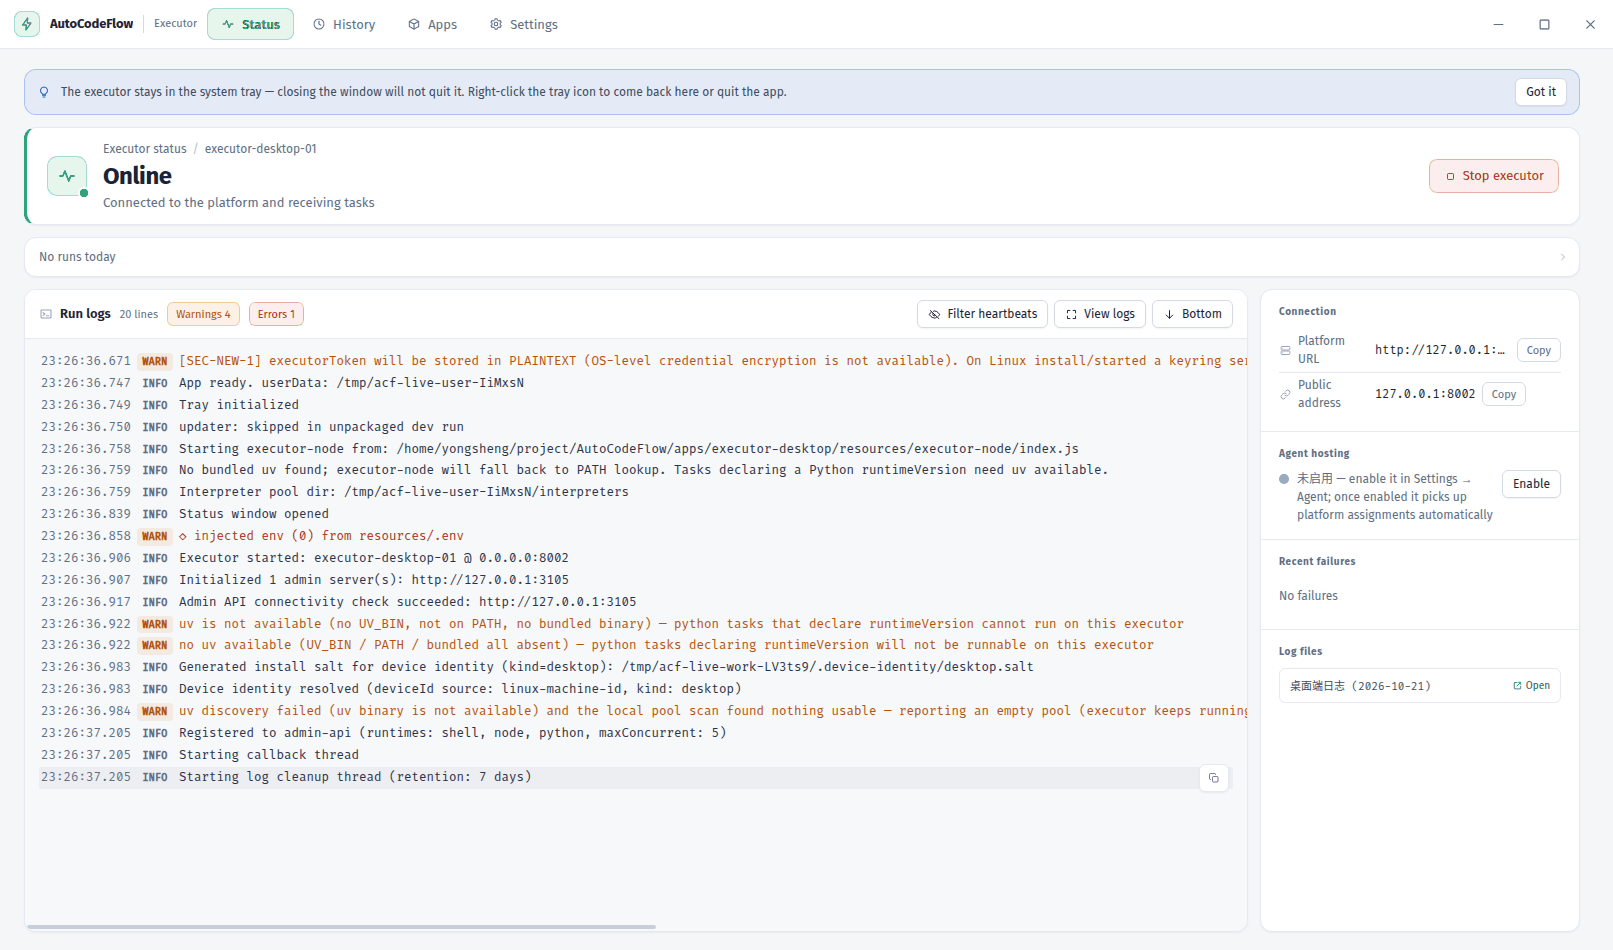
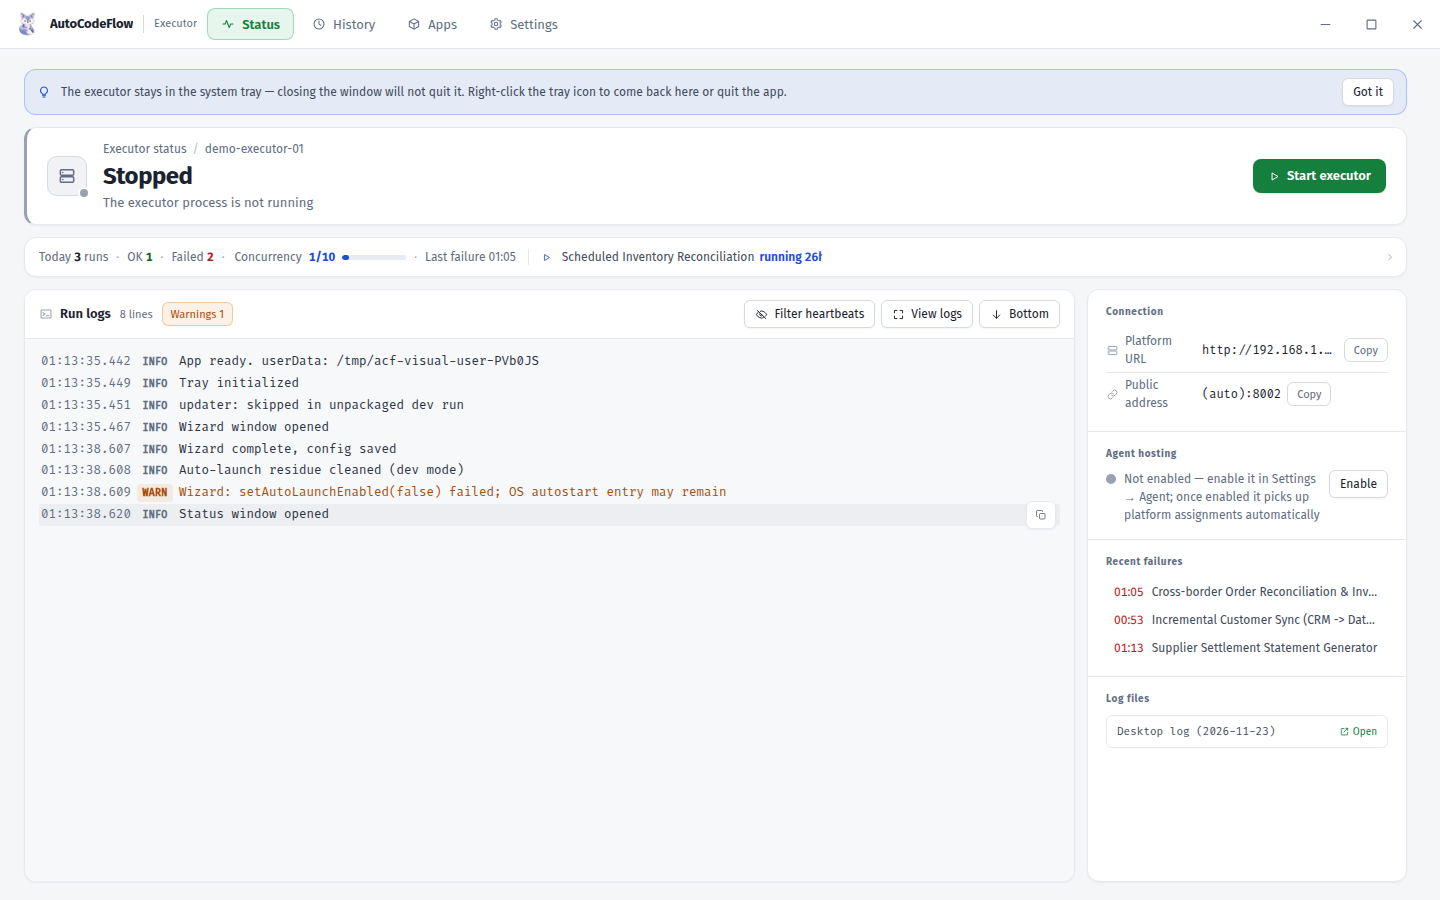
docs(assets): 架构图补 SOP/Agent 并重拍中英全量 41 张中台与桌面端实机截图
- 通过 brand:build 重建 architecture-{zh,en}.{svg,png}，admin-api 副标对称补入 SOP · Agent
- 隔离 demo 栈（v2.3.0）真浏览器重拍中英 13 对中台截图（26 张，1760×1100 ≤350KB），新增 sops / audit / notifications，删除冗余 demo-dashboard.png
- Electron 重拍中英 4 对新版 BrandFox 桌面端截图（8 张，660×780 / 1440×900），消除旧闪电图标、英文中文混排与个人路径泄露
- 补齐 docs/assets/screenshots/en/desktop-agent-sop.png 实现中英严格成对

diff --git a/scripts/brand/build-brand-assets.py b/scripts/brand/build-brand-assets.py
@@ -497,7 +497,7 @@ ARCH = {
                 ],
             },
         ],
-        "api": ("hex", "admin-api", "scheduling · callbacks · RBAC · audit · notifications"),
+        "api": ("hex", "admin-api", "scheduling · callbacks · SOP · Agent · RBAC · audit · notifications"),
         "api_chips": ["Cron / rate / webhook / DAG", "Leases & concurrency gates", "Retries · timeouts · alerts"],
         "stores": [
             ("PostgreSQL 16", "state, audit log, migrations"),
@@ -544,7 +544,7 @@ ARCH = {
                 ],
             },
         ],
-        "api": ("hex", "admin-api", "调度 · 回调 · RBAC · 审计 · 通知"),
+        "api": ("hex", "admin-api", "调度 · 回调 · SOP · Agent · RBAC · 审计 · 通知"),
         "api_chips": ["Cron / 固定频率 / Webhook / DAG", "租约与并发闸", "重试 · 超时 · 告警"],
         "stores": [
             ("PostgreSQL 16", "状态、审计日志、迁移"),
